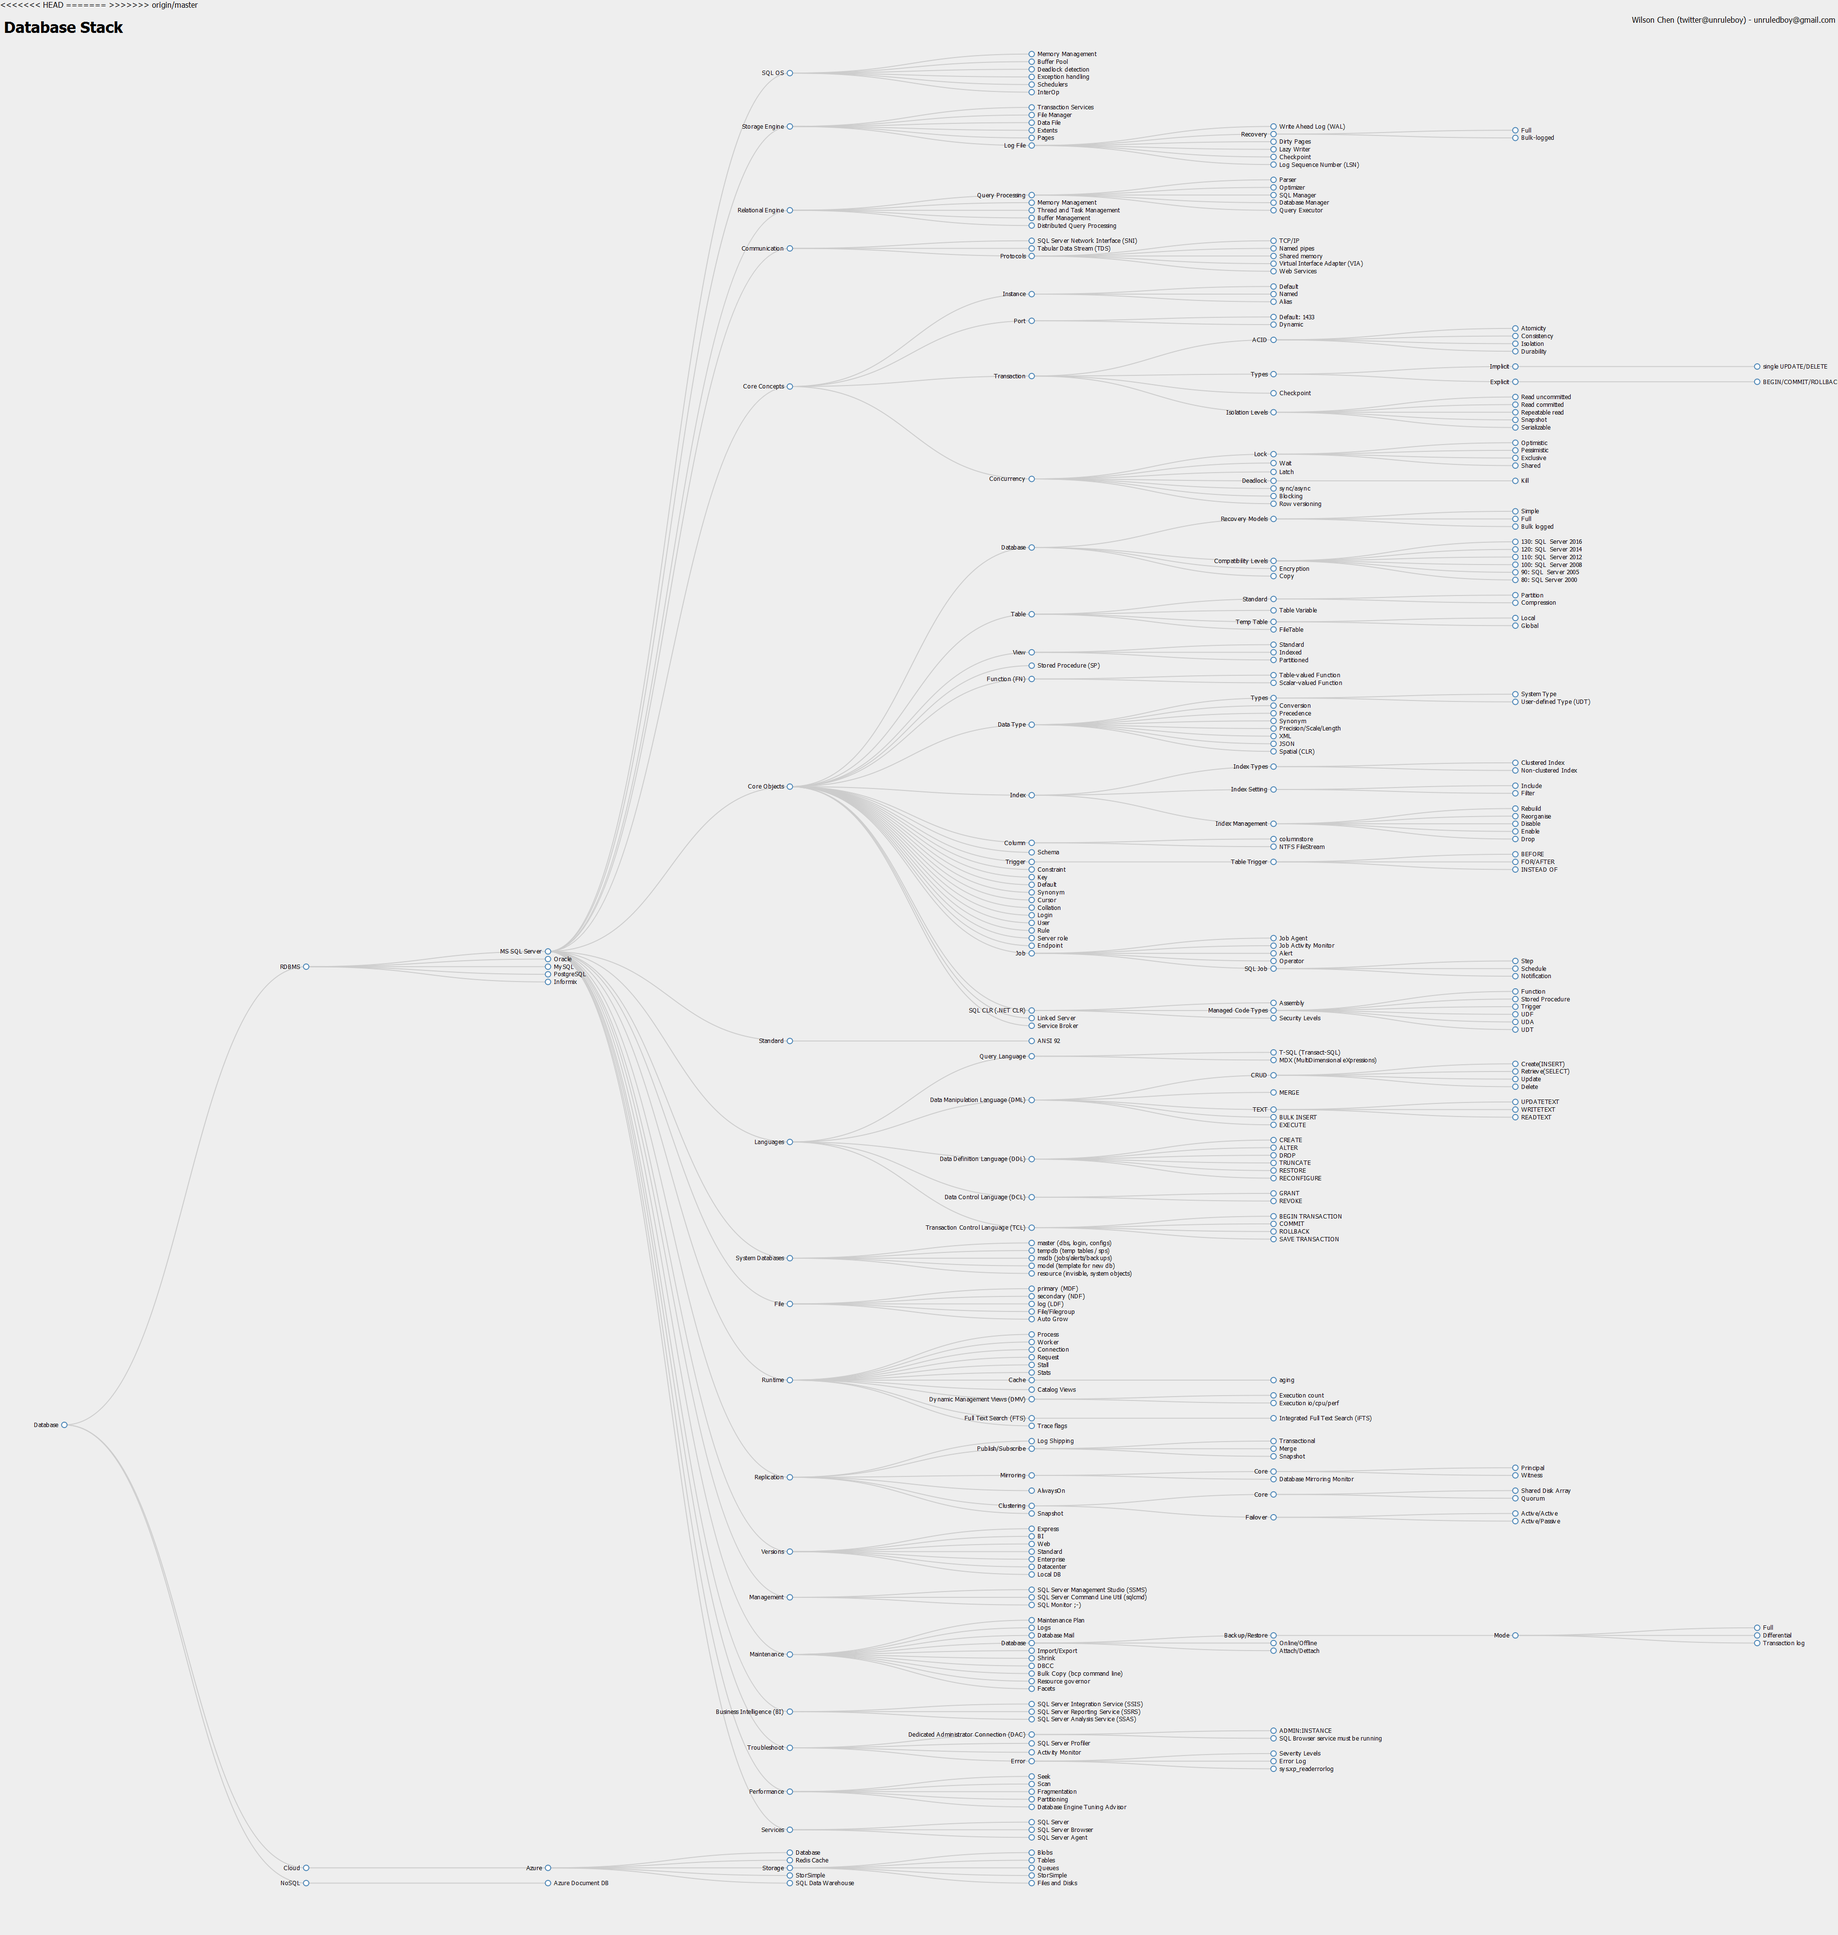
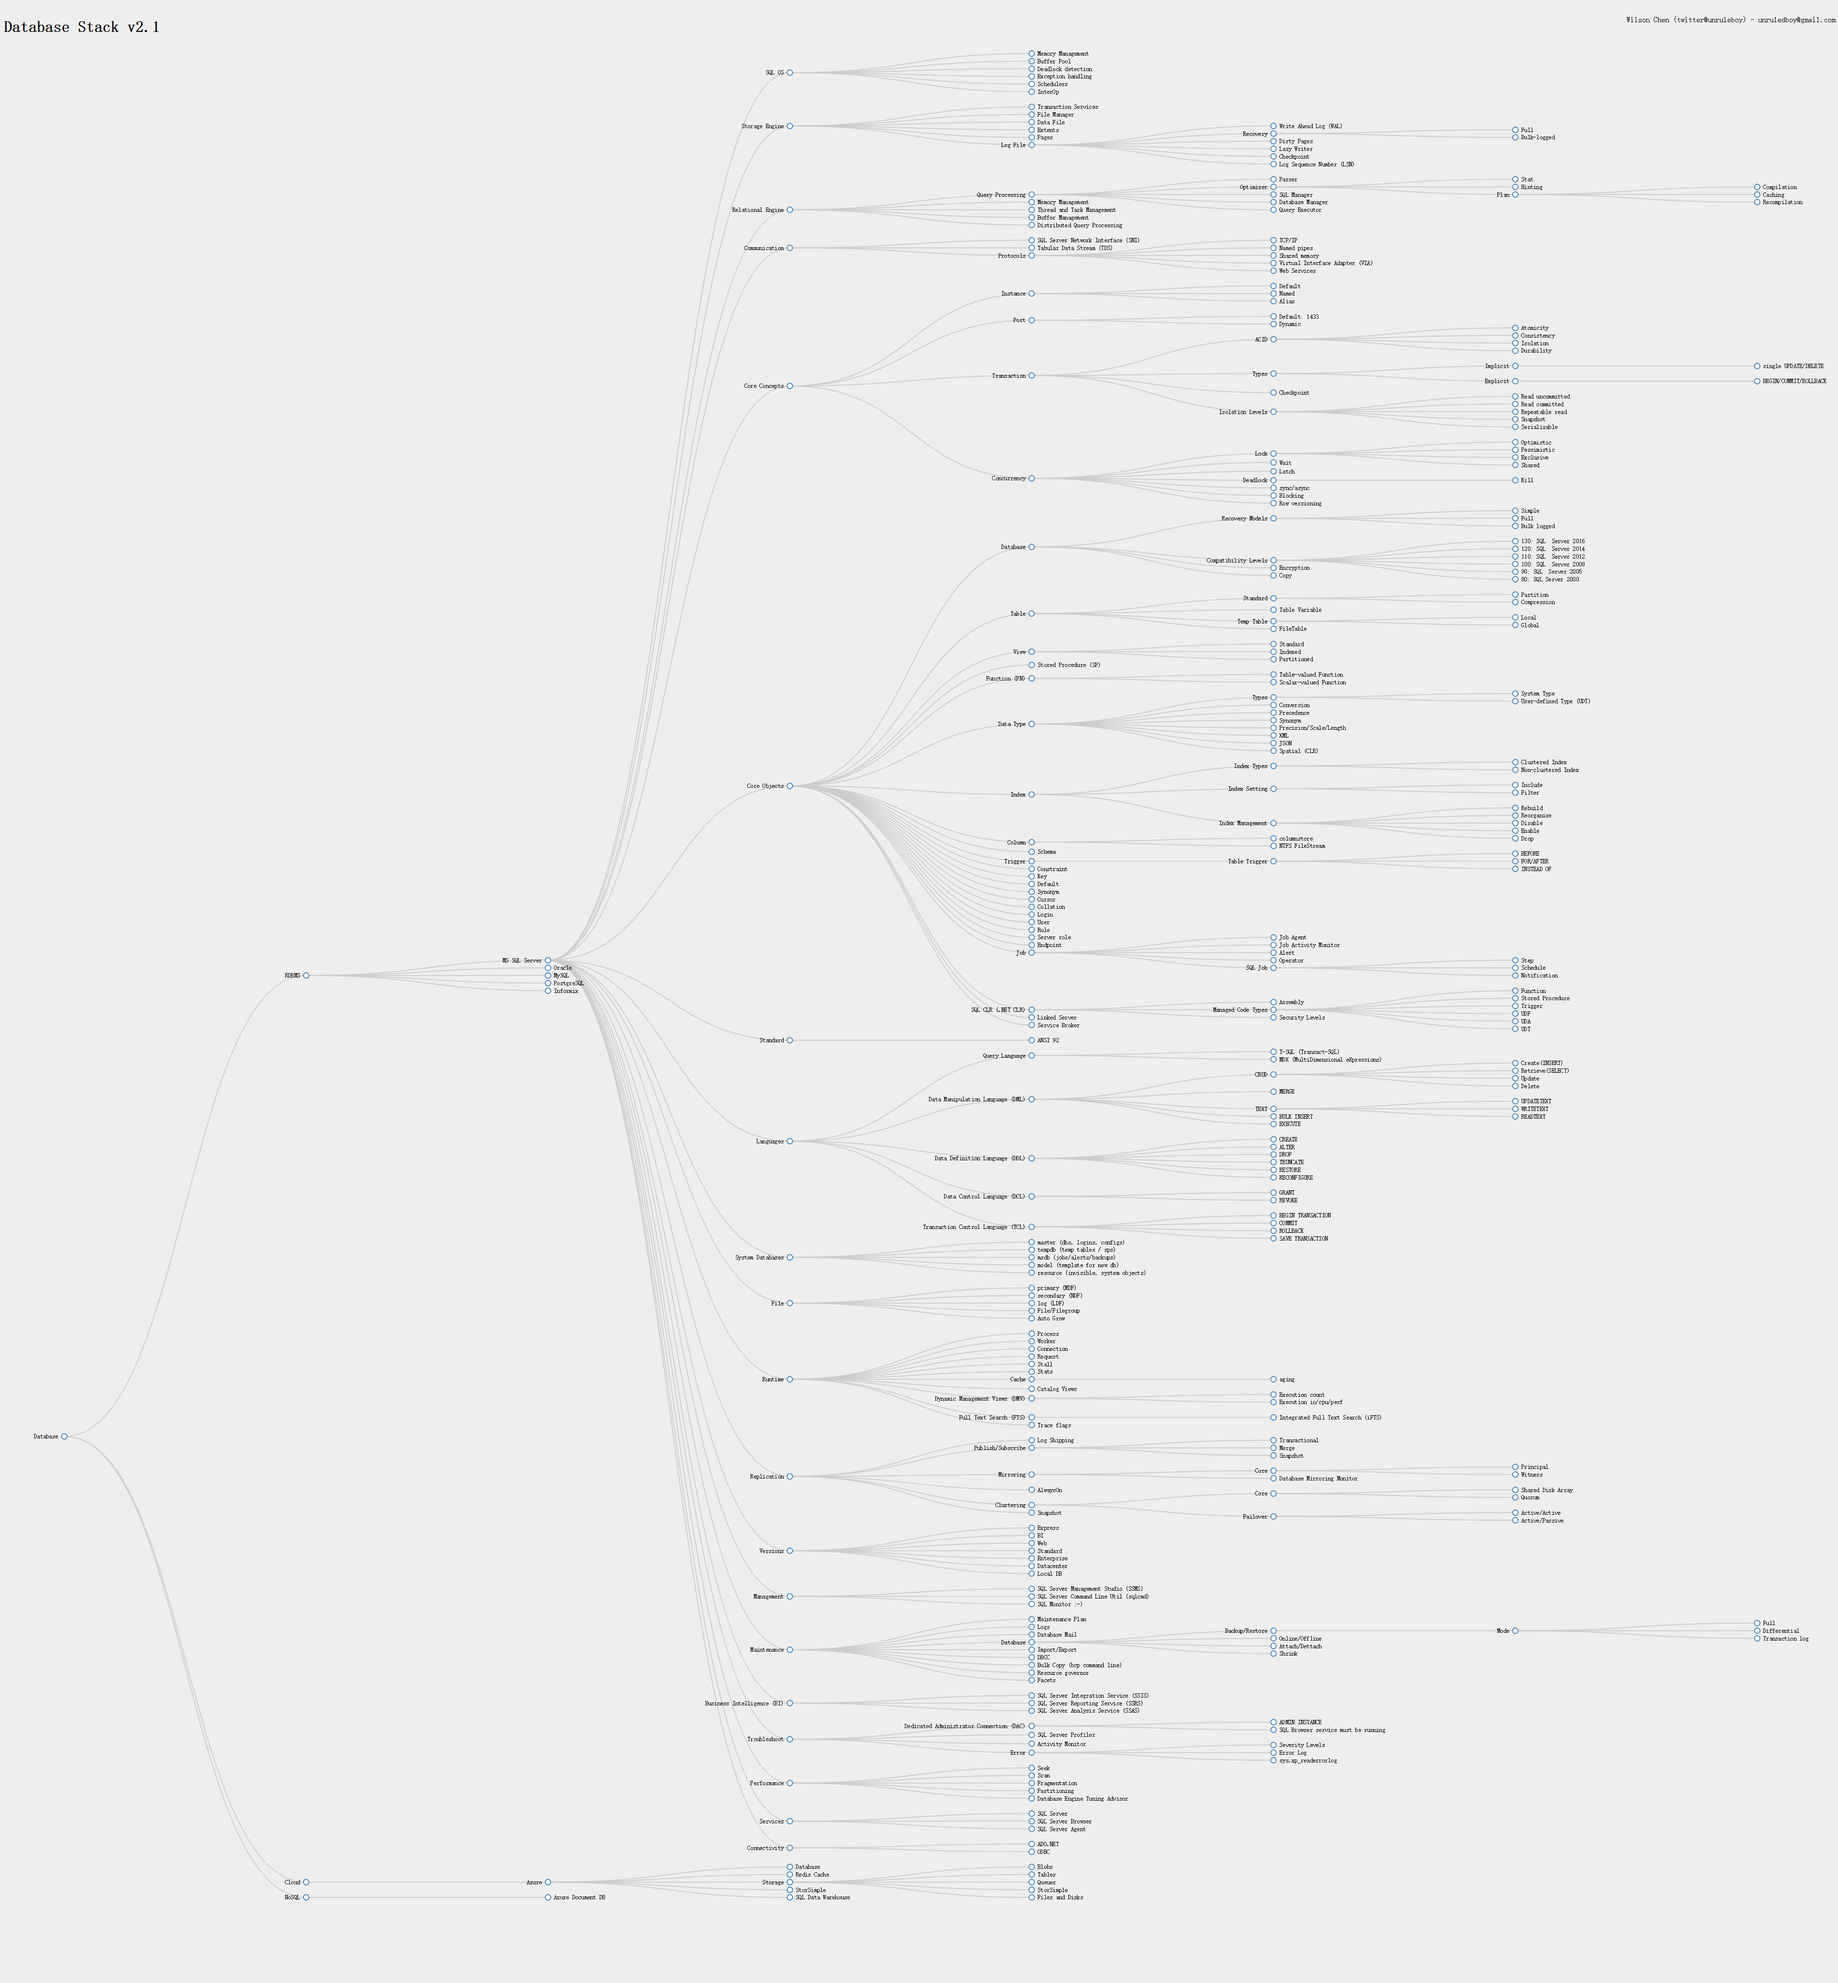
v2.1
added optimizer details and connectivity

diff --git a/ux/DatabaseStack.htm b/ux/DatabaseStack.htm
@@ -91,7 +91,7 @@
 <div class="container">
     <header>
         <div class="left">
-            <h1>Database Stack</h1>
+            <h1>Database Stack v2.1</h1>
         </div>
         <div class="right">
             <p><a href="http://github.com/unruledboy">Wilson Chen (twitter@unruleboy) - unruledboy@gmail.com</a></p>

diff --git a/index.js b/index.js
@@ -9,7 +9,7 @@ var port = process.env.PORT || 3000;
 var httpServer = "http://127.0.0.1:" + port + "/";
 
 var pageWidth = 3800; // Magic number!
-var pageHeight = 4000;
+var pageHeight = 4100;
 
 String.prototype.repeat = function(count) {
         var ret = [];

diff --git a/README.md b/README.md
@@ -56,6 +56,12 @@ https://rawgit.com/unruledboy/DatabaseStack/master/ux/DatabaseStack.htm
 				- Query Processing
 					- Parser
 					- Optimizer
+						- Stat
+						- Hinting
+						- Plan
+							- Compilation
+							- Caching
+							- Recompilation
 					- SQL Manager
 					- Database Manager
 					- Query Executor
@@ -243,7 +249,7 @@ https://rawgit.com/unruledboy/DatabaseStack/master/ux/DatabaseStack.htm
 					- ROLLBACK
 					- SAVE TRANSACTION
 			- System Databases
-				- master (dbs, login, configs)
+				- master (dbs, logins, configs)
 				- tempdb (temp tables / sps)
 				- msdb (jobs/alerts/backups)
 				- model (template for new db)
@@ -314,8 +320,8 @@ https://rawgit.com/unruledboy/DatabaseStack/master/ux/DatabaseStack.htm
 							- Transaction log
 					- Online/Offline
 					- Attach/Dettach
+					- Shrink
 				- Import/Export
-				- Shrink
 				- DBCC
 				- Bulk Copy (bcp command line)
 				- Resource governor
@@ -344,6 +350,9 @@ https://rawgit.com/unruledboy/DatabaseStack/master/ux/DatabaseStack.htm
 				- SQL Server
 				- SQL Server Browser
 				- SQL Server Agent
+			- Connectivity
+				- ADO.NET
+				- ODBC
 		- Oracle
 		- MySQL
 		- PostgreSQL
